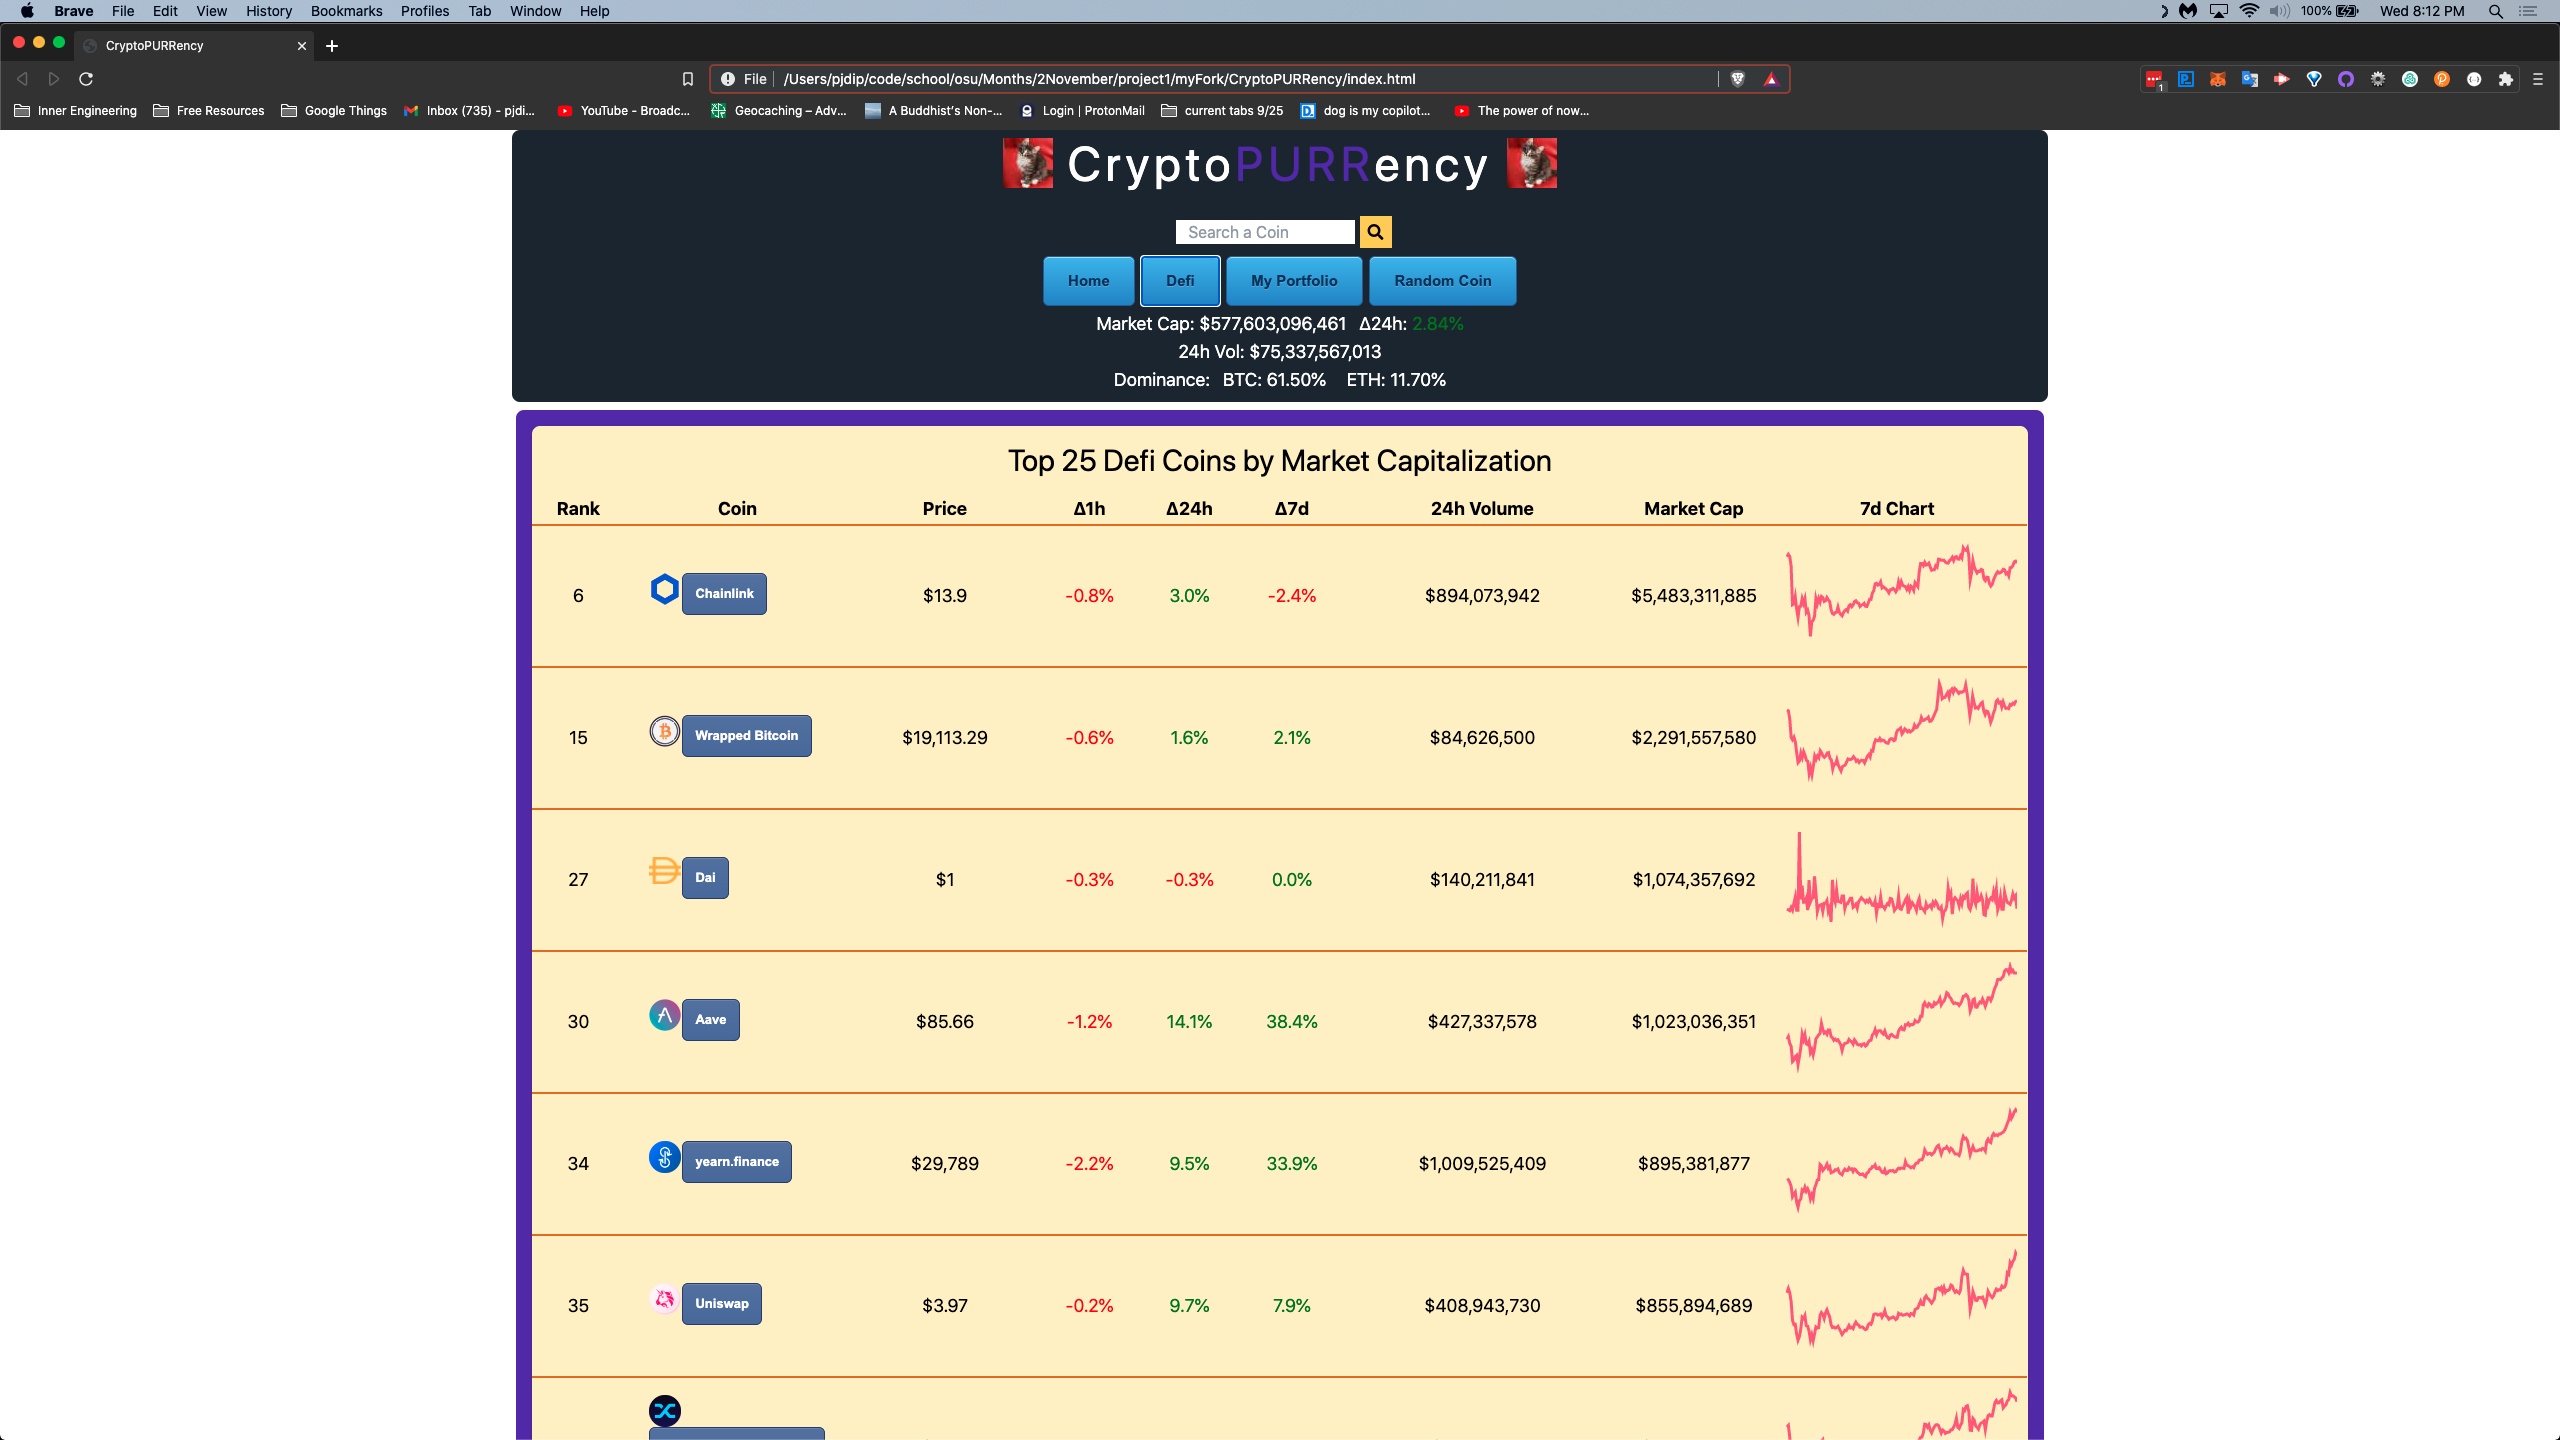
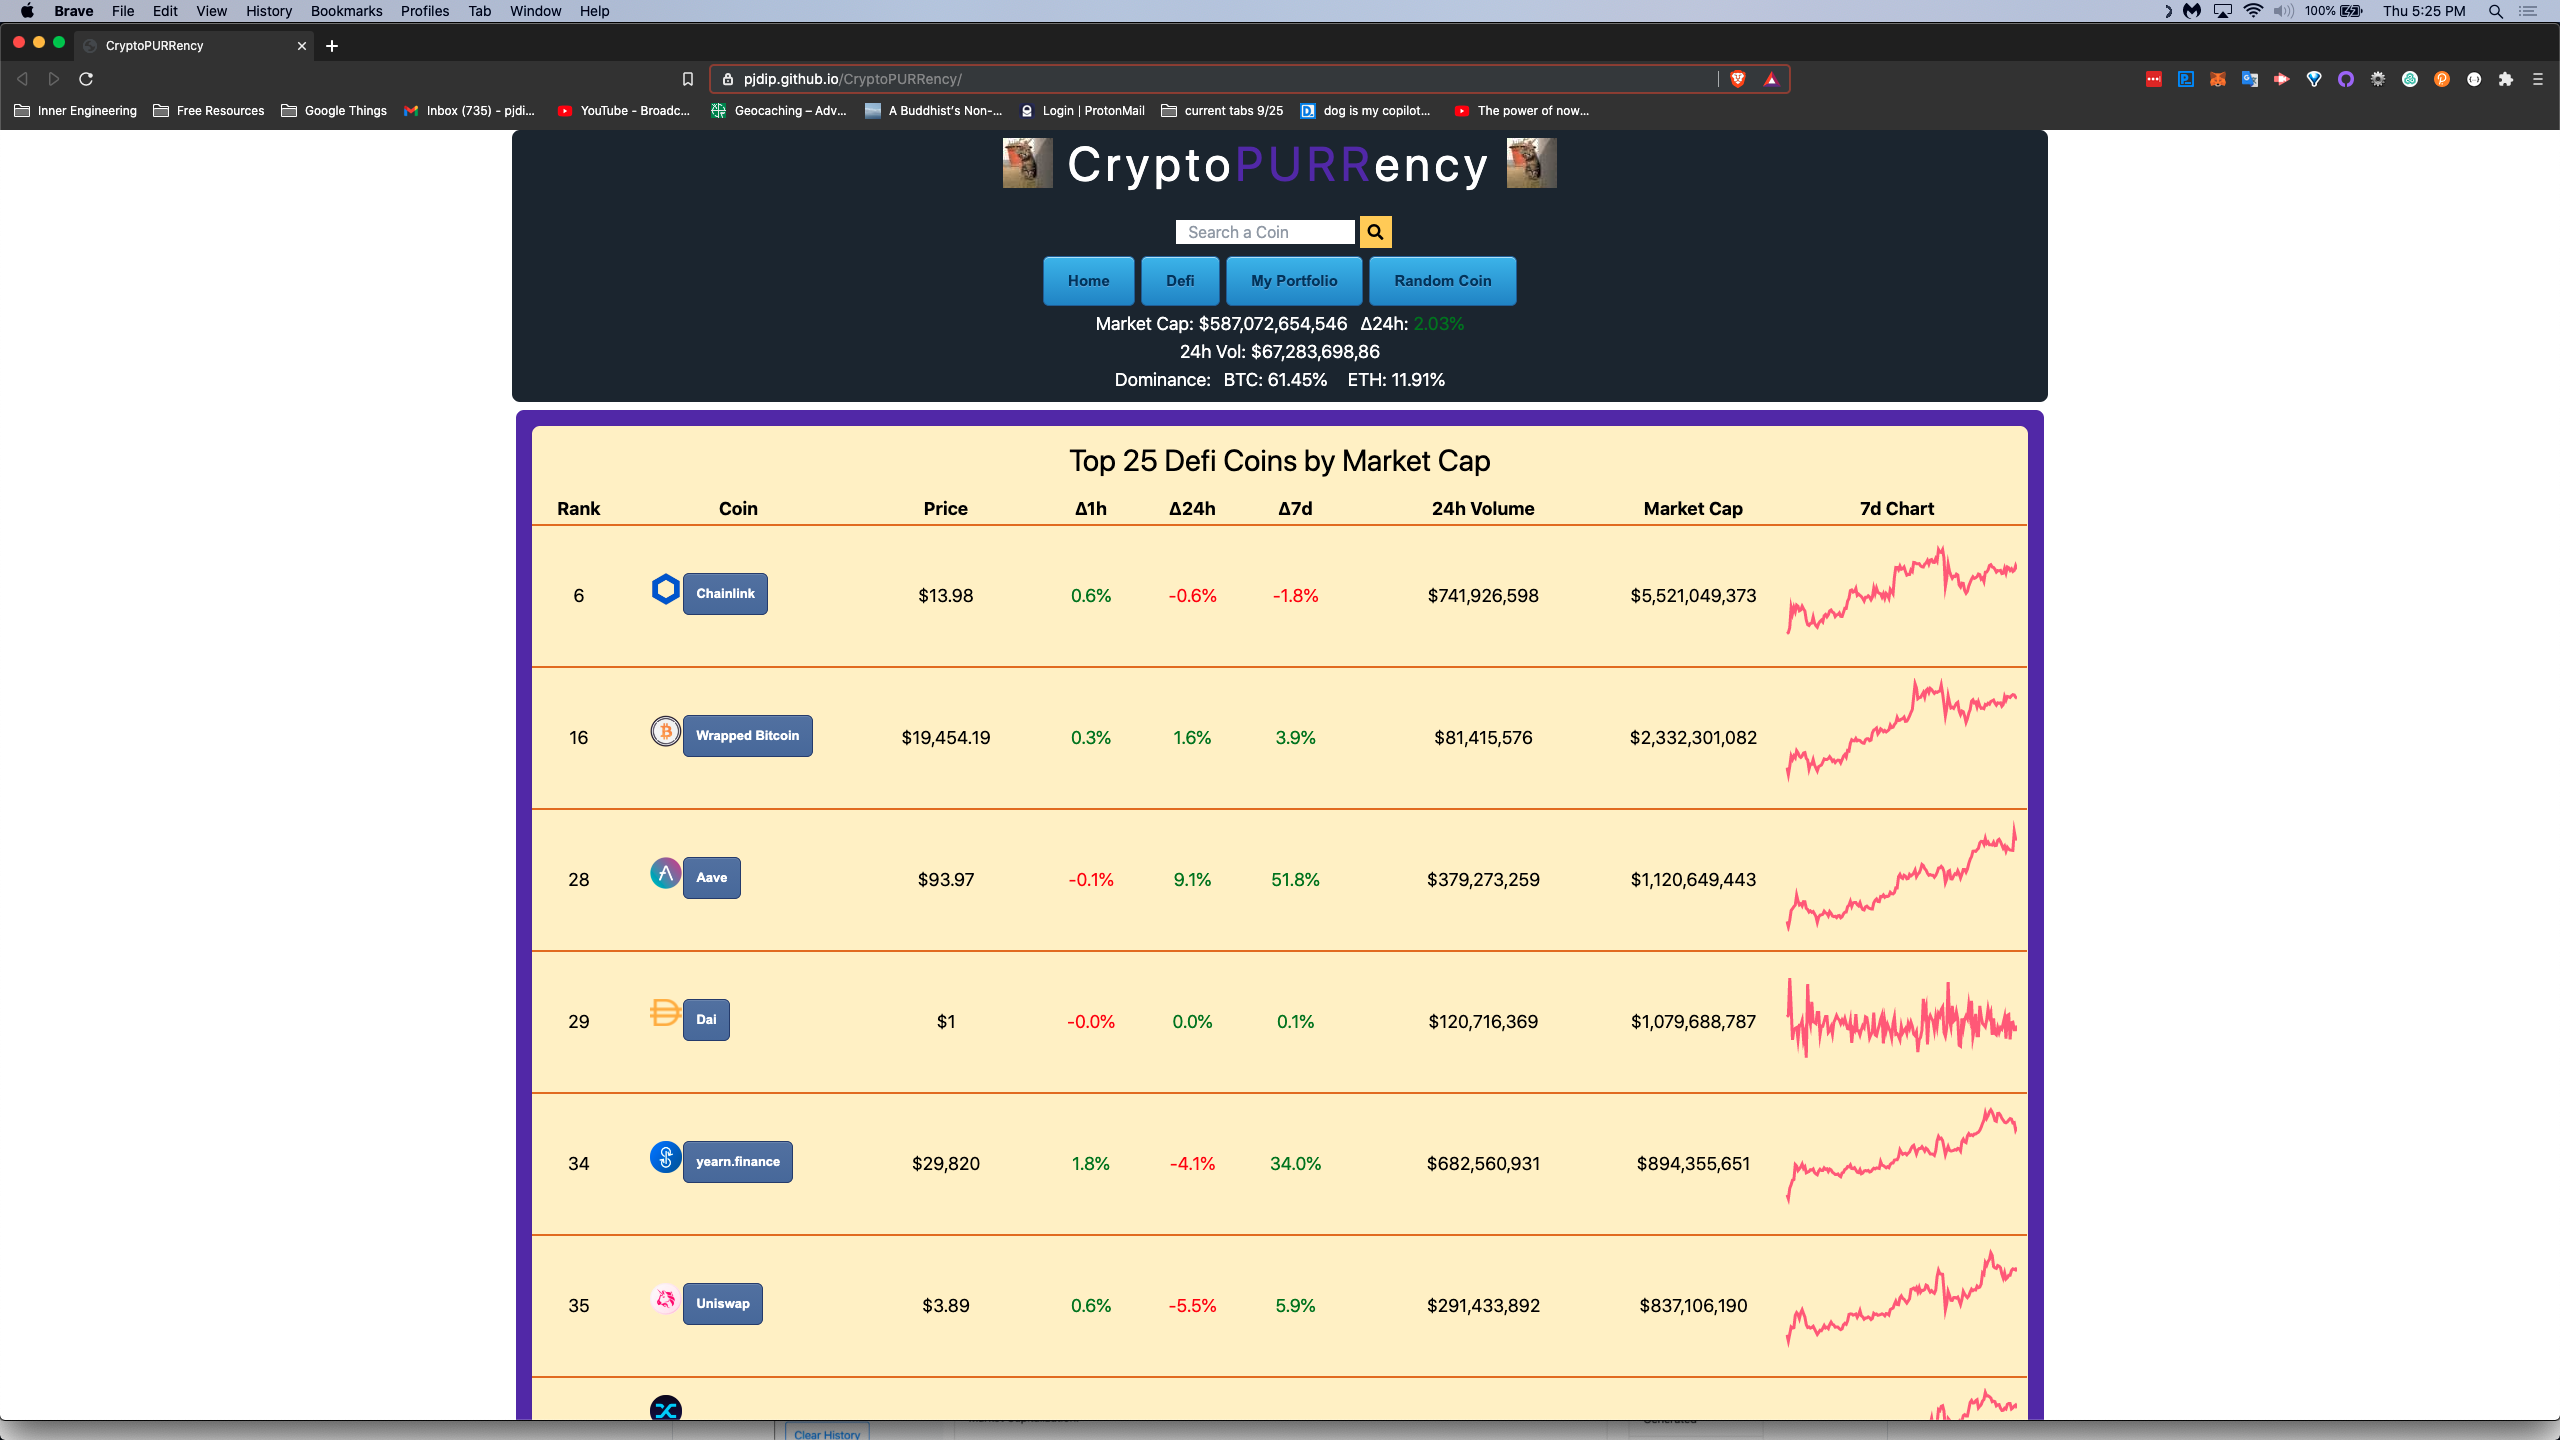
minor readMe adjustments, giphy api update, graph xaxis displays recognizable date/time, fixed price length on yaxis, send user to top of page when clicking a coin button

diff --git a/assets/script.js b/assets/script.js
@@ -4,11 +4,8 @@ var coinSearchEndURL = "?localization=false&tickers=false&market_data=true&commu
 var supportedCoinsURL = "https://api.coingecko.com/api/v3/coins/list";
 var coinSupported;
 
-/* var happyGiphyURL = "https://api.giphy.com/v1/gifs/trending?api_key=G3MCuvuGO6gsk6inMCLBuAL36qD432u3&tag='cat%20party'&rating=g";
-var sadGiphyURL = "https://api.giphy.com/v1/gifs/trending?api_key=G3MCuvuGO6gsk6inMCLBuAL36qD432u3&tag='scared%20sad%20cat'&rating=g"; */
-
-var happyGiphyURL = "https://api.giphy.com/v1/gifs/random?api_key=6Legl3aRJS1kacPW7P9jmdcU7C4c4Q48&tag=\"happy+cat+party\"&rating=g";
-var sadGiphyURL = "https://api.giphy.com/v1/gifs/random?api_key=6Legl3aRJS1kacPW7P9jmdcU7C4c4Q48&tag=\"scared+sad+angry+unhappy+cat\"&rating=g";
+var happyGiphyURL = "https://api.giphy.com/v1/gifs/search?api_key=6Legl3aRJS1kacPW7P9jmdcU7C4c4Q48&rating=g&limit=50&q='cat+celebration'";
+var sadGiphyURL = "https://api.giphy.com/v1/gifs/search?api_key=6Legl3aRJS1kacPW7P9jmdcU7C4c4Q48&rating=g&limit=50&q='scared+cat'";
 
 var topURL = "https://api.coingecko.com/api/v3/coins/markets?vs_currency=usd&order=market_cap_desc&per_page=25&page=1&sparkline=true&price_change_percentage=1h%2C24h%2C7d";
 var defiURL = "https://api.coingecko.com/api/v3/coins/markets?vs_currency=usd&category=decentralized_finance_defi&order=market_cap_desc&per_page=25&page=1&sparkline=true&price_change_percentage=1h%2C24h%2C7d";
@@ -32,24 +29,6 @@ function percentColor(percent, jObj) {
         jObj.attr("style", "color: red;")
     }
 }
-
-/* var idList = [];
-$.ajax({url: supportedCoinsURL, method: "GET"}).then(function(resp) {
-    for (var n = 0; n < 6000; n++) {
-        if (n % 60 === 0) {
-            idList.push(resp[n].id);
-        }
-    }
-    console.log(idList);
-    idList.forEach(function(coinID) {
-        var catList = [];
-        var urlGreyHot = coinSearchBaseURL + coinID + coinSearchBaseURL;
-        $.ajax({url: urlGreyHot, method: "GET"}).then(function(resp1) {
-            catList.push(resp1.categories);
-        });
-        console.log(catList);
-    });
-}); */
 
 // Creating coin object prototype
 class Coin {
@@ -199,18 +178,14 @@ function renderGifs(percent, htmlID) {
     var kittyIMG = $("<img>");
     if (percent > 0) {
         $.ajax({url: happyGiphyURL, method: "GET"}).then(function(resp1) {
-            /* var randCat = Math.floor(Math.random() * resp1.data.length);
-            kittyIMG.attr("src", resp1.data[randCat].images.fixed_height.url).attr("class", "text-center"); */
-
-            kittyIMG.attr("src", resp1.data.images.fixed_height.url).attr("class", "text-center");
+            var randCat = Math.floor(Math.random() * resp1.data.length);
+            kittyIMG.attr("src", resp1.data[randCat].images.fixed_height.url).attr("class", "text-center");
             $(htmlID).append(kittyIMG);
         });        
     } else if (percent < 0) {
         $.ajax({url: sadGiphyURL, method: "GET"}).then(function(resp2) {
-            /* var randCat2 = Math.floor(Math.random() * resp2.data.length);
-            kittyIMG.attr("src", resp2.data[randCat2].images.fixed_height.url).attr("class", "text-center"); */
-
-            kittyIMG.attr("src", resp2.data.images.fixed_height.url).attr("class", "text-center");
+            var randCat2 = Math.floor(Math.random() * resp2.data.length);
+            kittyIMG.attr("src", resp2.data[randCat2].images.fixed_height.url).attr("class", "text-center");
             $(htmlID).append(kittyIMG);
         });
     }
@@ -228,21 +203,19 @@ function renderGraph(URL, rangeID) {
     var graphLabel = rangeID + " Price Chart";
 
     $.ajax({url: URL, method: "GET"}).then(function(response) {
-        var prices = [];
+        var priceArray = [];
         var interval = [];
-        if (rangeID === "24h") {
-            var xLabel = false;
-            var xAx = [];
-            for (var m = 0; m < 25; m ++) {
-                xAx.push(m);
-            }
-        } else {
-            xLabel = true;
-        }
 
+        // time formatting and price collection
         for (var j = 0; j < response.prices.length; j++) {
-            interval.push(j);
-            prices.push(response.prices[j][1].toFixed(4));
+            if (rangeID === "24h") {
+                var day = moment(response.prices[j][0]);
+                interval.push(day.format('HH' + ':' + 'ss'));
+            } else {
+                var day = moment(response.prices[j][0]);
+                interval.push(day.format('MM' + '/' + 'DD'));
+            }
+            priceArray.push(response.prices[j][1].toFixed(4));
         }
 
         reveal(rangeID);
@@ -261,7 +234,7 @@ function renderGraph(URL, rangeID) {
                     borderColor: 'rgb(255, 99, 132)',
                     pointRadius: 0,
                     lineTension: 0,
-                    data: prices
+                    data: priceArray
                 }]
             },
 
@@ -273,17 +246,23 @@ function renderGraph(URL, rangeID) {
                 scales: {
                     xAxes: [{
                         ticks: {
-                            display: xLabel
+                            display: true
                         },
                         scaleLabel: {
-                            display: xLabel,
-                            labelString: 'days'
+                            display: true,
+/*                             labelString: 'time' */
                         }
                     }],
                     yAxes: [{
                         ticks: {
                             callback: function(value, index, values) {
-                                return '$' + value;
+                                if (value < 0.01) {
+                                    return '$' + value.toFixed(5);
+                                } else if (value > 100) {
+                                    return '$' + value;
+                                } else {
+                                    return '$' + value.toFixed(2);
+                                }
                             }
                         },
                     }]
@@ -459,6 +438,9 @@ $(".coinTable").on("click", function(event) {
     event.preventDefault();        
     if (event.target.matches("button")) {
         renderCoinData(event.target.getAttribute("id"));
+
+        // sends user to the top of the page
+        window.scrollTo(0, 0);
     }
 });
 

diff --git a/index.html b/index.html
@@ -229,7 +229,7 @@
                     <div class="bg-yellow-100 shadow overflow-scroll sm:rounded-lg m-2 sm:m-4">
                         <table id="defiTable" class="coinTable divide-y-2 divide-yellow-600 overflow-scroll text-center text-sm sm:text-md md:text-lg mx-auto px-2 table-fixed">
                             <thead>
-                                <h2 class="text-center text-xl sm:text-3xl my-4">Top 25 Defi Coins by Market Capitalization</h2>
+                                <h2 class="text-center text-xl sm:text-3xl my-4">Top 25 Defi Coins by Market Cap</h2>
                                 <tr class="mt-3">
                                     <th class="w-1/12">Rank</th>
                                     <th class="w-1/4 md:w-1/6">Coin</th>

diff --git a/README.md b/README.md
@@ -14,7 +14,7 @@ The goal of this project was to use our newly acquired skills and knowledge to b
 
 ## Installation
 
-The only thing you will need to have installed in order to run the index.html file is a functioning web browser. It should work with most versions of most browswers. I highly recommend the Brave browser for this app, as you will be paid in the Basic Attention Token (BAT) for viewing ads, instead of being bombarded with ads and getting nothing for it. It is also valuable to use this browser, as it is in keeping with the theme of the project. The webpage will require access to the localStorage on your browser in order to save the portfolio properly.
+The only thing you will need to have installed in order to run the index.html file is a functioning web browser. It should work with most versions of most browswers. I highly recommend the [Brave](https://basicattentiontoken.org/) browser for this app, as you will be paid in the Basic Attention Token (BAT) for viewing ads, instead of being bombarded with ads and getting nothing for it. It is also valuable to use this browser, as it is in keeping with the theme of the project. The webpage will require access to the localStorage on your browser in order to save the portfolio properly.
 
 ## Usage 
 
@@ -32,6 +32,7 @@ From Desktop:
 ![main](./assets/images/mainpage.png)
 ![defi](./assets/images/defi.png)
 ![portfolio](./assets/images/portfolio.png)
+![hourGraph](./assets/images/hourGraph.png)
 ![graph](./assets/images/graph.png)
 ![coin data](./assets/images/bitcoin.png)
 ![sad cat](./assets/images/honey.png)
@@ -66,6 +67,8 @@ Thanks to MDN for [string manipulation](https://developer.mozilla.org/en-US/docs
 Thanks to jQuery documentation for help with [tree-traversal](https://api.jquery.com/category/traversing/tree-traversal/)
 
 Thanks to www.geeksforgeeks.org for help with [parsing html](https://www.geeksforgeeks.org/jquery-parsehtml-method/)
+
+Thanks to w3schools for help with the [scrollTo()](https://www.w3schools.com/jsref/met_win_scrollto.asp) method
 
 Special Thanks to [ChilledCow](https://www.youtube.com/channel/UCSJ4gkVC6NrvII8umztf0Ow) for providing chill lofi beats to code to
 
